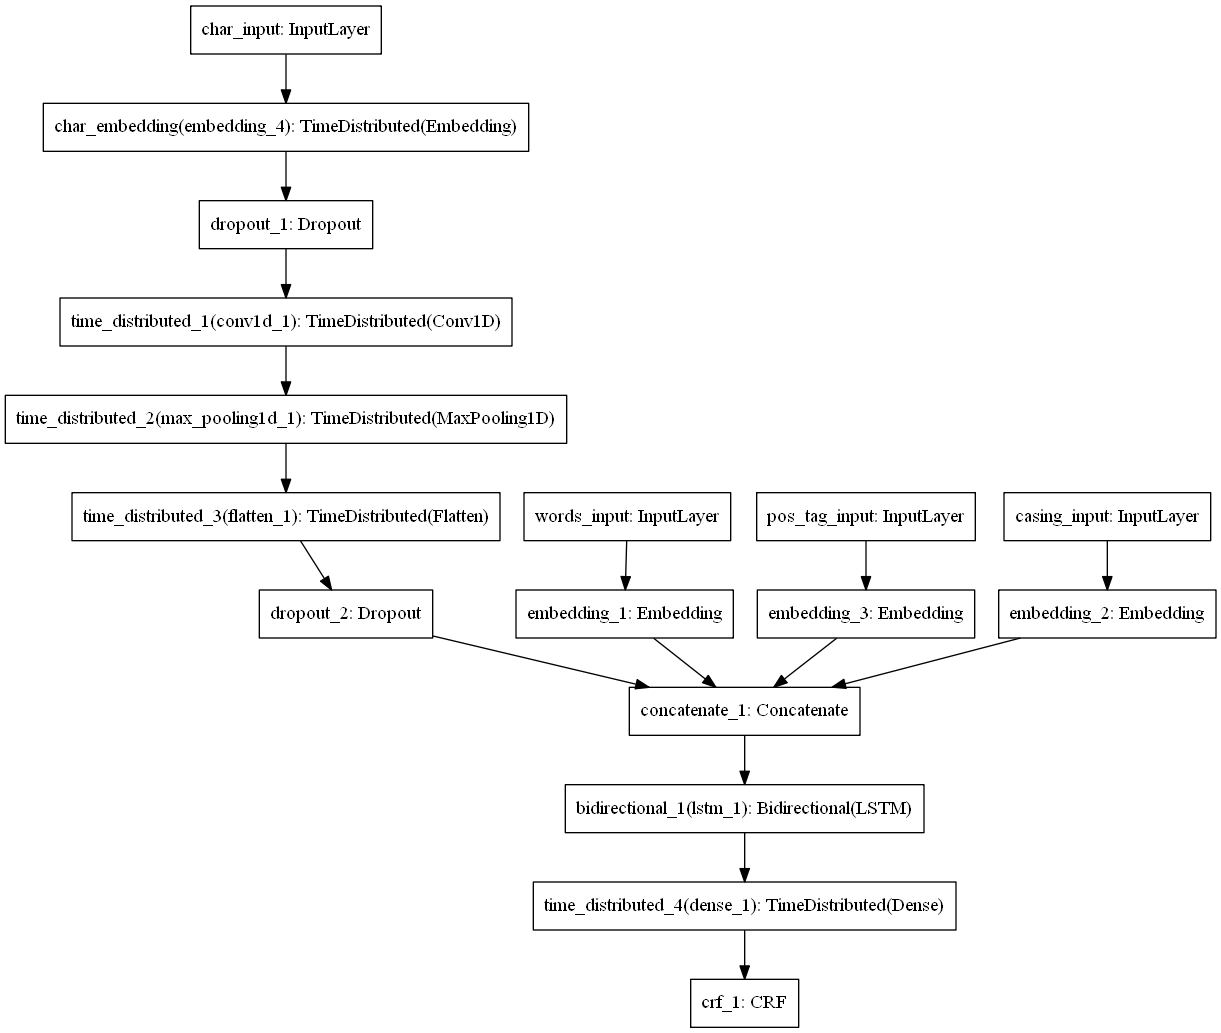
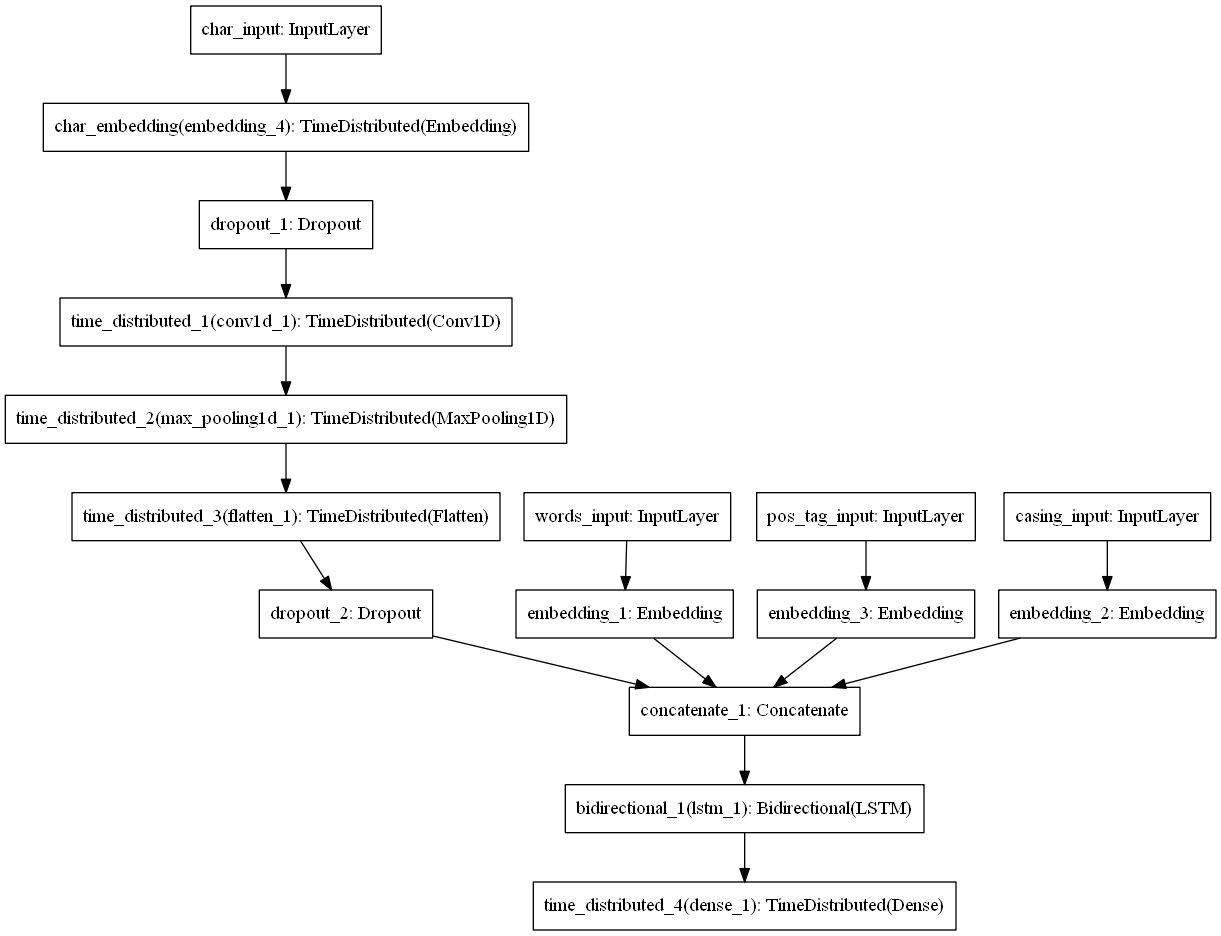
ChainCRF layer added to code

Changed region(s): [[0.0, 0.0929, 1.0, 1.0], [0.1556, 0.0, 0.3112, 0.062]]

diff --git a/src/layers.py b/src/layers.py
@@ -1,0 +1,364 @@
+# -*- coding: utf-8 -*-
+from __future__ import absolute_import
+"""
+Author: Philipp Gross, https://github.com/phipleg/keras/blob/crf/keras/layers/crf.py
+"""
+
+from keras import backend as K
+from keras import initializers, regularizers, constraints
+from keras.engine import Layer, InputSpec
+
+
+def path_energy(y, x, U, b_start=None, b_end=None, mask=None):
+    """Calculates the energy of a tag path y for a given input x (with mask),
+    transition energies U and boundary energies b_start, b_end."""
+    x = add_boundary_energy(x, b_start, b_end, mask)
+    return path_energy0(y, x, U, mask)
+
+
+def path_energy0(y, x, U, mask=None):
+    """Path energy without boundary potential handling."""
+    n_classes = K.shape(x)[2]
+    y_one_hot = K.one_hot(y, n_classes)
+
+    # Tag path energy
+    energy = K.sum(x * y_one_hot, 2)
+    energy = K.sum(energy, 1)
+
+    # Transition energy
+    y_t = y[:, :-1]
+    y_tp1 = y[:, 1:]
+    U_flat = K.reshape(U, [-1])
+    # Convert 2-dim indices (y_t, y_tp1) of U to 1-dim indices of U_flat:
+    flat_indices = y_t * n_classes + y_tp1
+    U_y_t_tp1 = K.gather(U_flat, flat_indices)
+
+    if mask is not None:
+        mask = K.cast(mask, K.floatx())
+        y_t_mask = mask[:, :-1]
+        y_tp1_mask = mask[:, 1:]
+        U_y_t_tp1 *= y_t_mask * y_tp1_mask
+
+    energy += K.sum(U_y_t_tp1, axis=1)
+
+    return energy
+
+
+def sparse_chain_crf_loss(y, x, U, b_start=None, b_end=None, mask=None):
+    """Given the true sparsely encoded tag sequence y, input x (with mask),
+    transition energies U, boundary energies b_start and b_end, it computes
+    the loss function of a Linear Chain Conditional Random Field:
+    loss(y, x) = NNL(P(y|x)), where P(y|x) = exp(E(y, x)) / Z.
+    So, loss(y, x) = - E(y, x) + log(Z)
+    Here, E(y, x) is the tag path energy, and Z is the normalization constant.
+    The values log(Z) is also called free energy.
+    """
+    x = add_boundary_energy(x, b_start, b_end, mask)
+    energy = path_energy0(y, x, U, mask)
+    energy -= free_energy0(x, U, mask)
+    return K.expand_dims(-energy, -1)
+
+
+def chain_crf_loss(y, x, U, b_start=None, b_end=None, mask=None):
+    """Variant of sparse_chain_crf_loss but with one-hot encoded tags y."""
+    y_sparse = K.argmax(y, -1)
+    y_sparse = K.cast(y_sparse, 'int32')
+    return sparse_chain_crf_loss(y_sparse, x, U, b_start, b_end, mask)
+
+
+def add_boundary_energy(x, b_start=None, b_end=None, mask=None):
+    """Given the observations x, it adds the start boundary energy b_start (resp.
+    end boundary energy b_end on the start (resp. end) elements and multiplies
+    the mask."""
+    if mask is None:
+        if b_start is not None:
+            x = K.concatenate([x[:, :1, :] + b_start, x[:, 1:, :]], axis=1)
+        if b_end is not None:
+            x = K.concatenate([x[:, :-1, :], x[:, -1:, :] + b_end], axis=1)
+    else:
+        mask = K.cast(mask, K.floatx())
+        mask = K.expand_dims(mask, 2)
+        x *= mask
+        if b_start is not None:
+            mask_r = K.concatenate([K.zeros_like(mask[:, :1]), mask[:, :-1]], axis=1)
+            start_mask = K.cast(K.greater(mask, mask_r), K.floatx())
+            x = x + start_mask * b_start
+        if b_end is not None:
+            mask_l = K.concatenate([mask[:, 1:], K.zeros_like(mask[:, -1:])], axis=1)
+            end_mask = K.cast(K.greater(mask, mask_l), K.floatx())
+            x = x + end_mask * b_end
+    return x
+
+
+def viterbi_decode(x, U, b_start=None, b_end=None, mask=None):
+    """Computes the best tag sequence y for a given input x, i.e. the one that
+    maximizes the value of path_energy."""
+    x = add_boundary_energy(x, b_start, b_end, mask)
+
+    alpha_0 = x[:, 0, :]
+    gamma_0 = K.zeros_like(alpha_0)
+    initial_states = [gamma_0, alpha_0]
+    _, gamma = _forward(x,
+                        lambda B: [K.cast(K.argmax(B, axis=1), K.floatx()), K.max(B, axis=1)],
+                        initial_states,
+                        U,
+                        mask)
+    y = _backward(gamma, mask)
+    return y
+
+
+def free_energy(x, U, b_start=None, b_end=None, mask=None):
+    """Computes efficiently the sum of all path energies for input x, when
+    runs over all possible tag sequences."""
+    x = add_boundary_energy(x, b_start, b_end, mask)
+    return free_energy0(x, U, mask)
+
+
+def free_energy0(x, U, mask=None):
+    """Free energy without boundary potential handling."""
+    initial_states = [x[:, 0, :]]
+    last_alpha, _ = _forward(x,
+                             lambda B: [K.logsumexp(B, axis=1)],
+                             initial_states,
+                             U,
+                             mask)
+    return last_alpha[:, 0]
+
+
+def _forward(x, reduce_step, initial_states, U, mask=None):
+    """Forward recurrence of the linear chain crf."""
+
+    def _forward_step(energy_matrix_t, states):
+        alpha_tm1 = states[-1]
+        new_states = reduce_step(K.expand_dims(alpha_tm1, 2) + energy_matrix_t)
+        return new_states[0], new_states
+
+    U_shared = K.expand_dims(K.expand_dims(U, 0), 0)
+
+    if mask is not None:
+        mask = K.cast(mask, K.floatx())
+        mask_U = K.expand_dims(K.expand_dims(mask[:, :-1] * mask[:, 1:], 2), 3)
+        U_shared = U_shared * mask_U
+
+    inputs = K.expand_dims(x[:, 1:, :], 2) + U_shared
+    inputs = K.concatenate([inputs, K.zeros_like(inputs[:, -1:, :, :])], axis=1)
+
+    last, values, _ = K.rnn(_forward_step, inputs, initial_states)
+    return last, values
+
+
+def batch_gather(reference, indices):
+    ref_shape = K.shape(reference)
+    batch_size = ref_shape[0]
+    n_classes = ref_shape[1]
+    flat_indices = K.arange(0, batch_size) * n_classes + K.flatten(indices)
+    return K.gather(K.flatten(reference), flat_indices)
+
+
+def _backward(gamma, mask):
+    """Backward recurrence of the linear chain crf."""
+    gamma = K.cast(gamma, 'int32')
+
+    def _backward_step(gamma_t, states):
+        y_tm1 = K.squeeze(states[0], 0)
+        y_t = batch_gather(gamma_t, y_tm1)
+        return y_t, [K.expand_dims(y_t, 0)]
+
+    initial_states = [K.expand_dims(K.zeros_like(gamma[:, 0, 0]), 0)]
+    _, y_rev, _ = K.rnn(_backward_step,
+                        gamma,
+                        initial_states,
+                        go_backwards=True)
+    y = K.reverse(y_rev, 1)
+
+    if mask is not None:
+        mask = K.cast(mask, dtype='int32')
+        # mask output
+        y *= mask
+        # set masked values to -1
+        y += -(1 - mask)
+    return y
+
+
+class ChainCRF(Layer):
+    """A Linear Chain Conditional Random Field output layer.
+    It carries the loss function and its weights for computing
+    the global tag sequence scores. While training it acts as
+    the identity function that passes the inputs to the subsequently
+    used loss function. While testing it applies Viterbi decoding
+    and returns the best scoring tag sequence as one-hot encoded vectors.
+    # Arguments
+        init: weight initialization function for chain energies U.
+            Can be the name of an existing function (str),
+            or a Theano function (see: [initializers](../initializers.md)).
+        U_regularizer: instance of [WeightRegularizer](../regularizers.md)
+            (eg. L1 or L2 regularization), applied to the transition weight matrix.
+        b_start_regularizer: instance of [WeightRegularizer](../regularizers.md),
+            applied to the start bias b.
+        b_end_regularizer: instance of [WeightRegularizer](../regularizers.md)
+            module, applied to the end bias b.
+        b_start_constraint: instance of the [constraints](../constraints.md)
+            module, applied to the start bias b.
+        b_end_constraint: instance of the [constraints](../constraints.md)
+            module, applied to the end bias b.
+        weights: list of Numpy arrays for initializing [U, b_start, b_end].
+            Thus it should be a list of 3 elements of shape
+            [(n_classes, n_classes), (n_classes, ), (n_classes, )]
+    # Input shape
+        3D tensor with shape `(nb_samples, timesteps, nb_classes)`, where
+        ´timesteps >= 2`and `nb_classes >= 2`.
+    # Output shape
+        Same shape as input.
+    # Masking
+        This layer supports masking for input sequences of variable length.
+    # Example
+    ```python
+    # As the last layer of sequential layer with
+    # model.output_shape == (None, timesteps, nb_classes)
+    crf = ChainCRF()
+    model.add(crf)
+    # now: model.output_shape == (None, timesteps, nb_classes)
+    # Compile model with chain crf loss (and one-hot encoded labels) and accuracy
+    model.compile(loss=crf.loss, optimizer='sgd', metrics=['accuracy'])
+    # Alternatively, compile model with sparsely encoded labels and sparse accuracy:
+    model.compile(loss=crf.sparse_loss, optimizer='sgd', metrics=['sparse_categorical_accuracy'])
+    ```
+    # Gotchas
+    ## Model loading
+    When you want to load a saved model that has a crf output, then loading
+    the model with 'keras.models.load_model' won't work properly because
+    the reference of the loss function to the transition parameters is lost. To
+    fix this, you need to use the parameter 'custom_objects' as follows:
+    ```python
+    from keras.layer.crf import create_custom_objects:
+    model = keras.models.load_model(filename, custom_objects=create_custom_objects())
+    ```
+    ## Temporal sample weights
+    Given a ChainCRF instance crf both loss functions, crf.loss and crf.sparse_loss
+    return a tensor of shape (batch_size, 1) and not (batch_size, maxlen).
+    that sample weighting in temporal mode.
+    """
+    def __init__(self, init='glorot_uniform',
+                 U_regularizer=None,
+                 b_start_regularizer=None,
+                 b_end_regularizer=None,
+                 U_constraint=None,
+                 b_start_constraint=None,
+                 b_end_constraint=None,
+                 weights=None,
+                 **kwargs):
+        super(ChainCRF, self).__init__(**kwargs)
+        self.init = initializers.get(init)
+        self.U_regularizer = regularizers.get(U_regularizer)
+        self.b_start_regularizer = regularizers.get(b_start_regularizer)
+        self.b_end_regularizer = regularizers.get(b_end_regularizer)
+        self.U_constraint = constraints.get(U_constraint)
+        self.b_start_constraint = constraints.get(b_start_constraint)
+        self.b_end_constraint = constraints.get(b_end_constraint)
+
+        self.initial_weights = weights
+
+        self.supports_masking = True
+        self.uses_learning_phase = True
+        self.input_spec = [InputSpec(ndim=3)]
+
+    def compute_output_shape(self, input_shape):
+        assert input_shape and len(input_shape) == 3
+        return (input_shape[0], input_shape[1], input_shape[2])
+
+    def compute_mask(self, input, mask=None):
+        if mask is not None:
+            return K.any(mask, axis=1)
+        return mask
+
+    def _fetch_mask(self):
+        mask = None
+        if self._inbound_nodes:
+            mask = self._inbound_nodes[0].input_masks[0]
+        return mask
+
+    def build(self, input_shape):
+        assert len(input_shape) == 3
+        n_classes = input_shape[2]
+        n_steps = input_shape[1]
+        assert n_steps is None or n_steps >= 2
+        self.input_spec = [InputSpec(dtype=K.floatx(),
+                                     shape=(None, n_steps, n_classes))]
+
+        self.U = self.add_weight((n_classes, n_classes),
+                                 initializer=self.init,
+                                 name='U',
+                                 regularizer=self.U_regularizer,
+                                 constraint=self.U_constraint)
+
+        self.b_start = self.add_weight((n_classes, ),
+                                       initializer='zero',
+                                       name='b_start',
+                                       regularizer=self.b_start_regularizer,
+                                       constraint=self.b_start_constraint)
+
+        self.b_end = self.add_weight((n_classes, ),
+                                     initializer='zero',
+                                     name='b_end',
+                                     regularizer=self.b_end_regularizer,
+                                     constraint=self.b_end_constraint)
+
+        if self.initial_weights is not None:
+            self.set_weights(self.initial_weights)
+            del self.initial_weights
+
+        self.built = True
+
+    def call(self, x, mask=None):
+        y_pred = viterbi_decode(x, self.U, self.b_start, self.b_end, mask)
+        nb_classes = self.input_spec[0].shape[2]
+        y_pred_one_hot = K.one_hot(y_pred, nb_classes)
+        return K.in_train_phase(x, y_pred_one_hot)
+
+    def loss(self, y_true, y_pred):
+        """Linear Chain Conditional Random Field loss function.
+        """
+        mask = self._fetch_mask()
+        return chain_crf_loss(y_true, y_pred, self.U, self.b_start, self.b_end, mask)
+
+    def sparse_loss(self, y_true, y_pred):
+        """Linear Chain Conditional Random Field loss function with sparse
+        tag sequences.
+        """
+        y_true = K.cast(y_true, 'int32')
+        y_true = K.squeeze(y_true, 2)
+        mask = self._fetch_mask()
+        return sparse_chain_crf_loss(y_true, y_pred, self.U, self.b_start, self.b_end, mask)
+
+    def get_config(self):
+        config = {
+            'init': initializers.serialize(self.init),
+            'U_regularizer': regularizers.serialize(self.U_regularizer),
+            'b_start_regularizer': regularizers.serialize(self.b_start_regularizer),
+            'b_end_regularizer': regularizers.serialize(self.b_end_regularizer),
+            'U_constraint': constraints.serialize(self.U_constraint),
+            'b_start_constraint': constraints.serialize(self.b_start_constraint),
+            'b_end_constraint': constraints.serialize(self.b_end_constraint)
+        }
+        base_config = super(ChainCRF, self).get_config()
+        return dict(list(base_config.items()) + list(config.items()))
+
+
+def create_custom_objects():
+    """Returns the custom objects, needed for loading a persisted model."""
+    instanceHolder = {'instance': None}
+
+    class ClassWrapper(ChainCRF):
+        def __init__(self, *args, **kwargs):
+            instanceHolder['instance'] = self
+            super(ClassWrapper, self).__init__(*args, **kwargs)
+
+    def loss(*args):
+        method = getattr(instanceHolder['instance'], 'loss')
+        return method(*args)
+
+    def sparse_loss(*args):
+        method = getattr(instanceHolder['instance'], 'sparse_loss')
+        return method(*args)
+
+    return {'ChainCRF': ClassWrapper, 'loss': loss, 'sparse_loss': sparse_loss}

diff --git a/src/preprocess.py b/src/preprocess.py
@@ -111,14 +111,14 @@ def padding(sentences):
 def create_batches(data):
     l = []
     for i in data:
-        l.append(len(i[0]))
+        l.append(len(i[0])) #sentence length
     l = set(l)
     batches = []
     batch_len = []
     z = 0
     for i in l:
         for batch in data:
-            if len(batch[0]) == i:
+            if len(batch[0]) == i: #same length sentences are added to same batch
                 batches.append(batch)
                 z += 1
         batch_len.append(z)

diff --git a/src/model.py b/src/model.py
@@ -3,6 +3,7 @@ from keras.layers import TimeDistributed, Conv1D, Dense, Embedding, Input, Dropo
     Flatten, concatenate
 from keras.initializers import RandomUniform
 from keras.utils import plot_model
+from src.layers import ChainCRF
 
 
 def get_model(word_embeddings, case_embeddings, char_index, label_index, posTagEmbedding):
